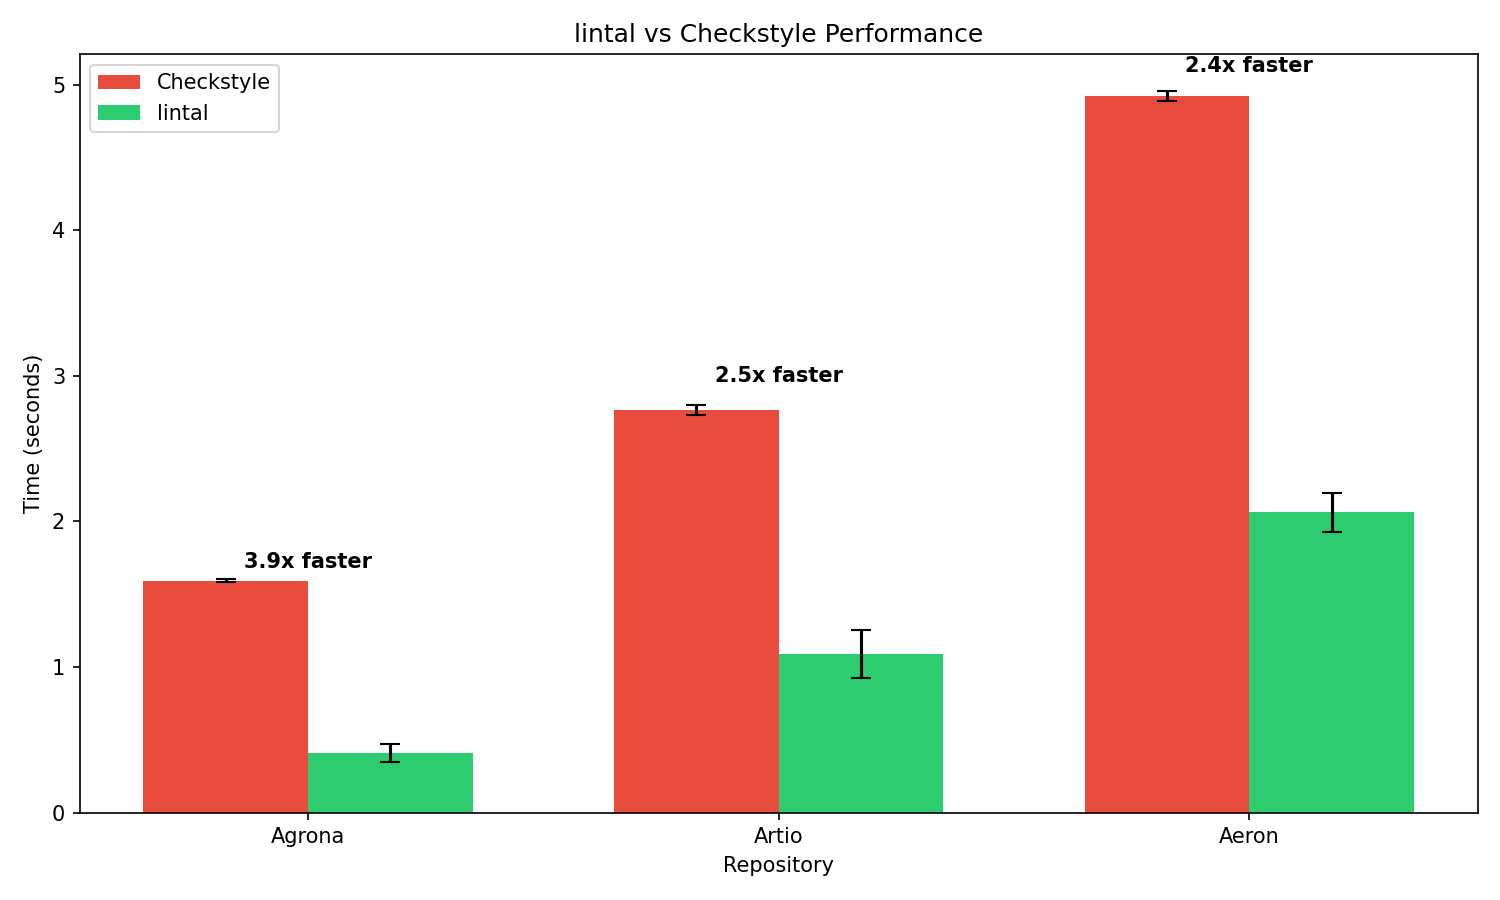
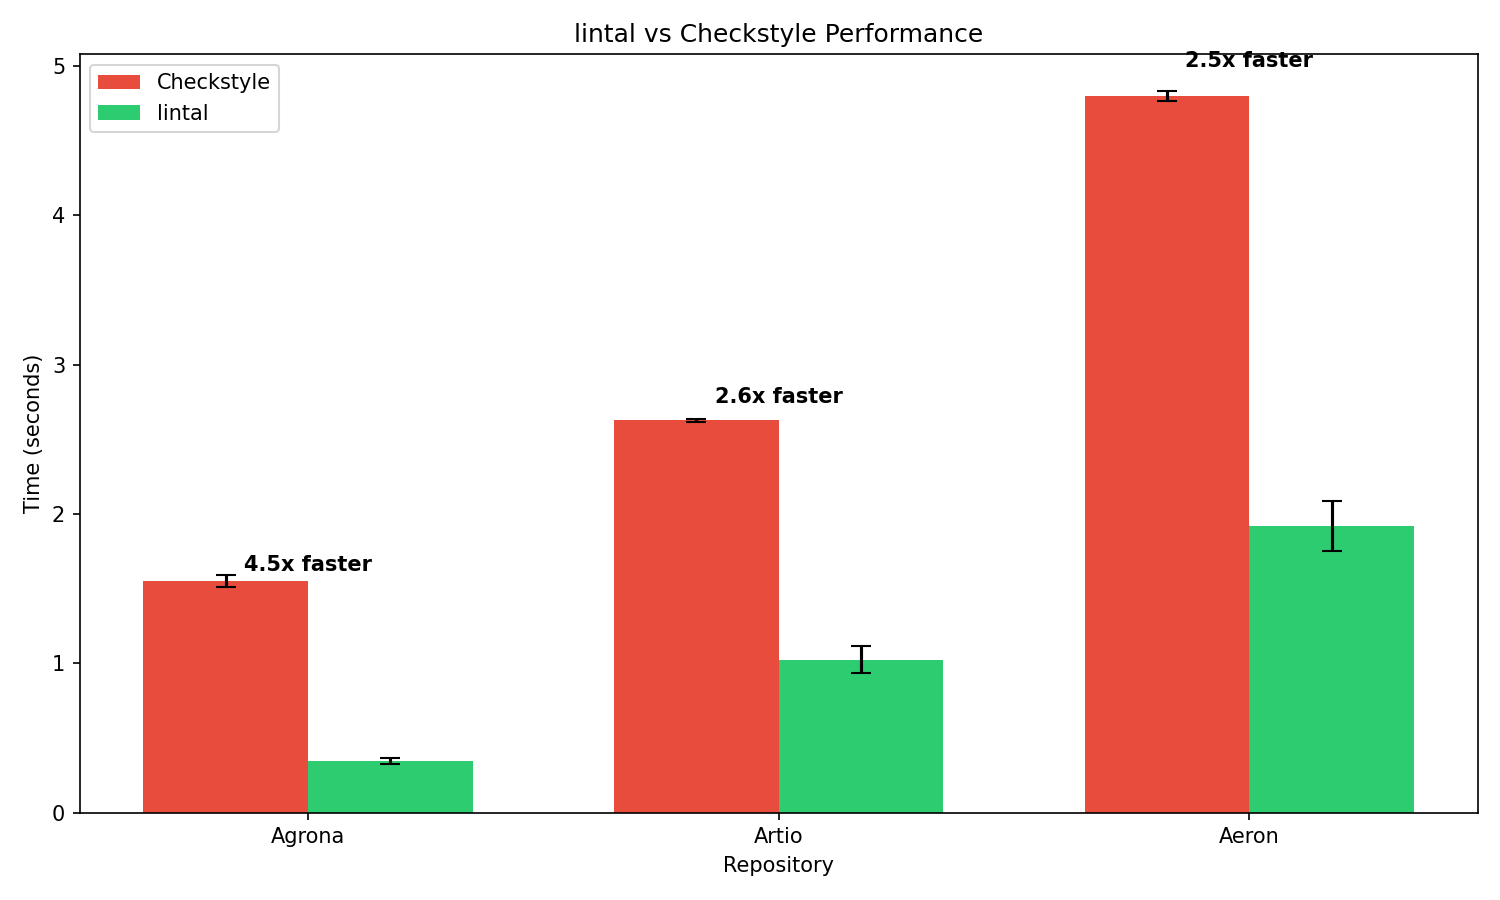
Updated perf test results

diff --git a/README.md b/README.md
@@ -30,9 +30,9 @@ lintal is significantly faster than checkstyle due to native compilation and par
 
 | Repository | Files | Checkstyle | lintal | Speedup |
 |------------|-------|------------|--------|---------|
-| Agrona | 289 | 1.59s ± 0.01s | 0.41s ± 0.06s | **3.9x** |
-| Artio | 726 | 2.76s ± 0.04s | 1.09s ± 0.16s | **2.5x** |
-| Aeron | 935 | 4.92s ± 0.04s | 2.06s ± 0.14s | **2.4x** |
+| Agrona | 289 | 1.55s ± 0.04s | 0.35s ± 0.02s | **4.5x** |
+| Artio | 726 | 2.63s ± 0.01s | 1.02s ± 0.09s | **2.6x** |
+| Aeron | 935 | 4.80s ± 0.03s | 1.92s ± 0.17s | **2.5x** |
 
 ![Benchmark Results](docs/benchmark_results.png)
 
